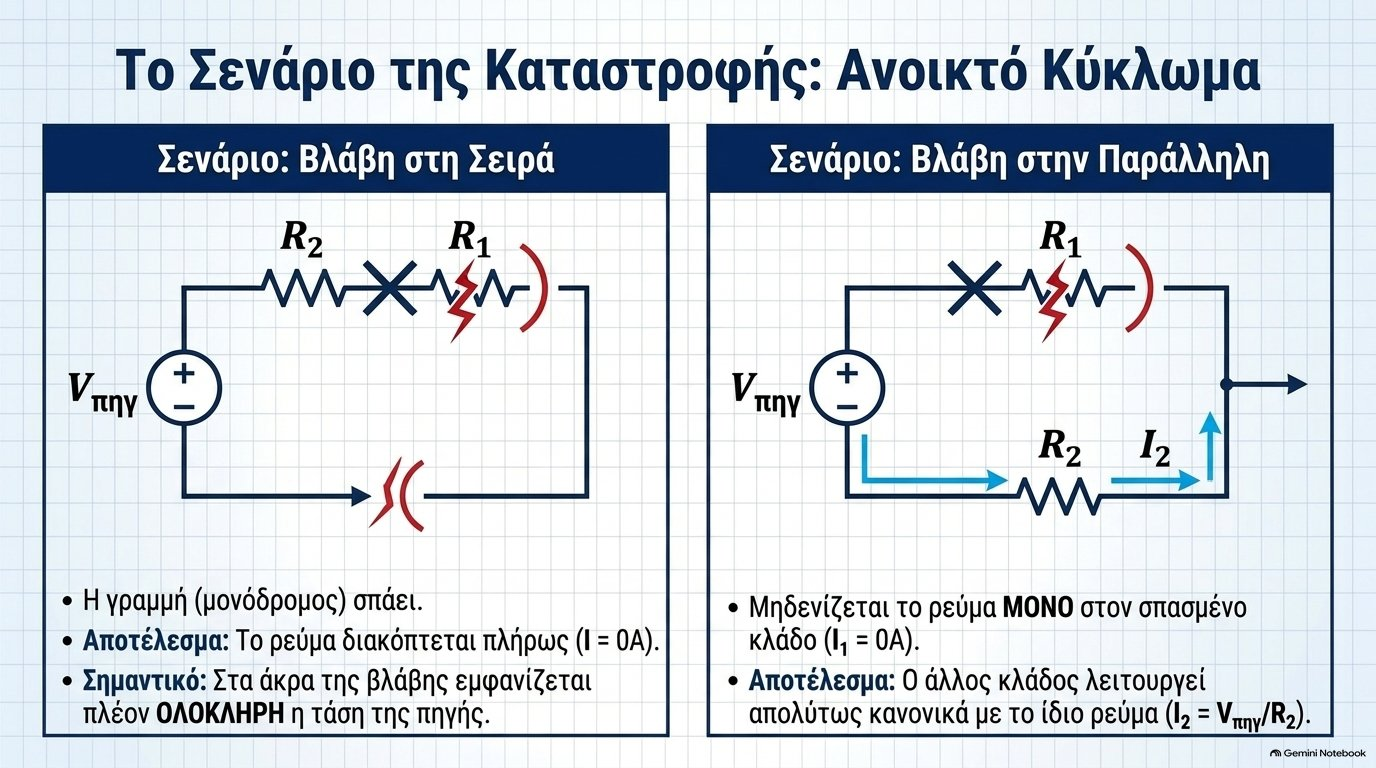
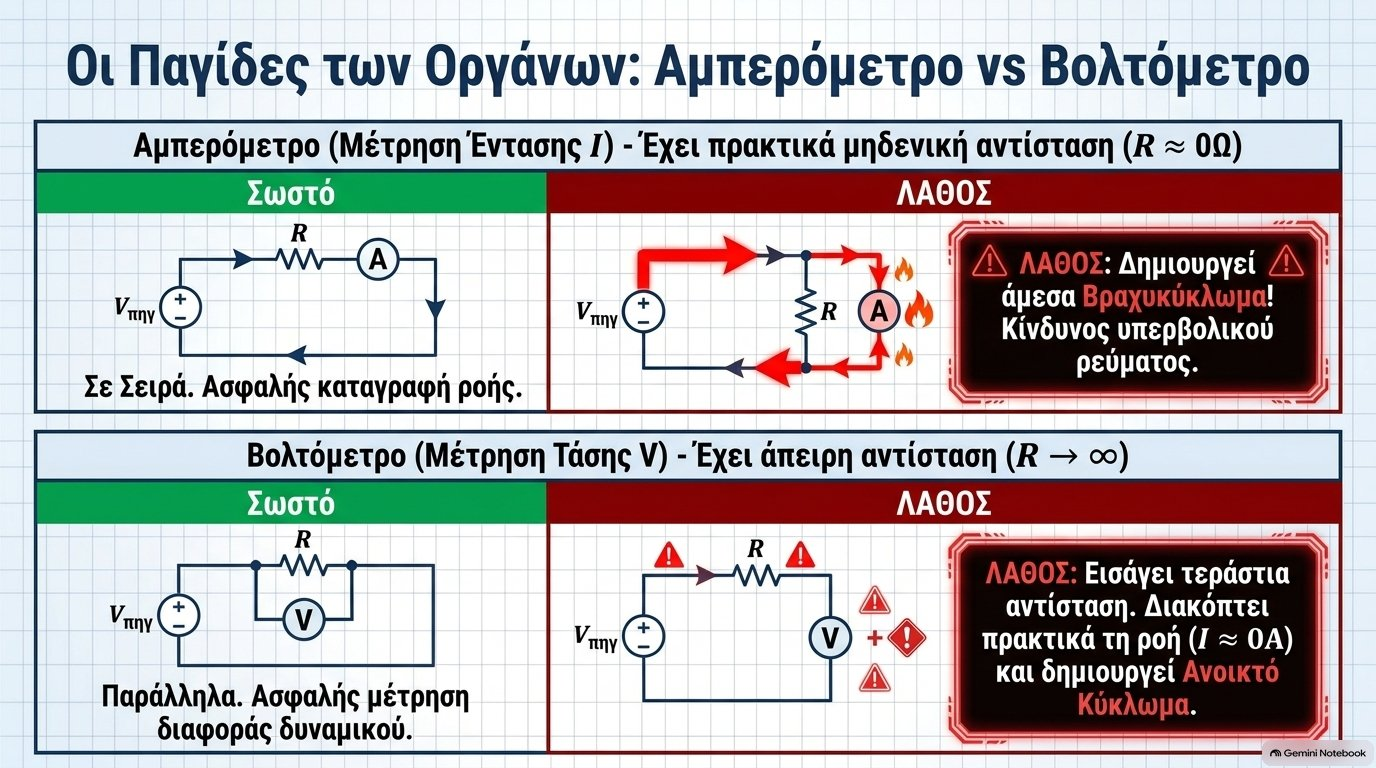
Fix SurvivalSlides deck isolation & reset-to-slide-1, trim physarch to 10 slides, add Physics G Circuit Architecture & Faults deck (12 slides)

diff --git a/js/survival-slides.js b/js/survival-slides.js
@@ -10,45 +10,52 @@ window.SurvivalSlides = (function () {
         geomosaic: { n: 11, dir: 'geomosaic/g', title: 'Το θαλάσσιο ψηφιδωτό της Ευρώπης', intro: '11 διαφάνειες για τις θάλασσες της Ευρώπης: καταγωγή, Βόρεια Θάλασσα, Βαλτική, Μεσόγειος και ο άνθρωπος.' },
         chemacid: { n: 30, out: [28, 29], dir: 'chemacid/c', title: 'Οξέα, βάσεις και εξουδετέρωση', intro: '30 διαφάνειες (οι δύο τελευταίες είναι ΕΚΤΟΣ ΥΛΗΣ): ιδιότητες οξέων και βάσεων, θεωρίες, δείκτες, κλίμακα pH, αραίωση και συμπύκνωση, εξουδετέρωση, και οι εφαρμογές τους στο σώμα μας, στη φύση, στο νοικοκυριό, στη διατροφή, στη βιομηχανία και στο περιβάλλον.' },
         bioalife: { n: 14, dir: 'bioalife/a', title: 'Η αρχιτεκτονική της ζωής', intro: '14 διαφάνειες για τα χαρακτηριστικά των ζωντανών οργανισμών, το κύτταρο και τα οργανίδιά του, και την οργάνωση από το κύτταρο μέχρι τον οργανισμό.' },
-        physarch: { n: 13, dir: 'physarch/f', title: 'Αρχιτεκτονική ηλεκτρικών κυκλωμάτων', intro: '13 διαφάνειες: ενέργεια, ρεύμα και τάση, οι τύποι του νόμου του Ohm, σύνδεση σε σειρά και παράλληλα, βλάβες και βραχυκύκλωμα, και σωστή χρήση οργάνων.' },
+        physarch: { n: 10, dir: 'physarch/f', title: 'Αρχιτεκτονική ηλεκτρικών κυκλωμάτων', intro: '10 διαφάνειες: ενέργεια, ρεύμα και τάση, οι τύποι του νόμου του Ohm, σύνδεση σε σειρά και παράλληλα, και σωστή χρήση οργάνων.' },
+        physfaults: { n: 12, dir: 'physfaults/p', title: 'Αρχιτεκτονική κυκλωμάτων & σενάρια βλάβης', intro: '12 διαφάνειες για τη <strong>μικροσκοπική θεώρηση</strong>, τη <strong>μαθηματική μοντελοποίηση</strong>, τα <strong>σενάρια βλάβης</strong> (ανοικτό κύκλωμα, μερικό βραχυκύκλωμα) και τα <strong>ενεργειακά ισοζύγια</strong>.' },
         bioarch: { n: 15, dir: 'bioarch/b', title: 'Στήριξη & Κίνηση: η αρχιτεκτονική της ζωής', intro: '15 διαφάνειες για τη <strong>στήριξη</strong> και την <strong>κίνηση</strong>: από τους μονοκύτταρους οργανισμούς και τα φυτά, μέχρι τα ζώα και το ανθρώπινο μυοσκελετικό σύστημα.' }
     };
-    let N = 14, src = (i) => 'assets/images/survival/s' + String(i + 1).padStart(2, '0') + '.jpg';
     let timer = null;
-    function stop() { if (timer) { clearInterval(timer); timer = null; } const b = document.getElementById('ss-play'); if (b) { b.classList.remove('on'); b.innerHTML = '▶ Αυτόματη αναπαραγωγή'; } }
+    function stop() {
+        if (timer) { clearInterval(timer); timer = null; }
+        document.querySelectorAll('.ss-play').forEach((b) => { b.classList.remove('on'); b.innerHTML = '▶ Αυτόματη αναπαραγωγή'; });
+        document.querySelectorAll('.ss-prog-bar').forEach((p) => { p.style.width = '0'; });
+    }
 
     function render(mount, key) {
         stop();
-        const set = SETS[key || 'survival']; N = set.n; src = (i) => 'assets/images/' + set.dir + String(i + 1).padStart(2, '0') + '.jpg';
+        const k = key || 'survival';
+        const set = SETS[k] || SETS.survival;
+        const N = set.n;
+        const src = (i) => 'assets/images/' + set.dir + String(i + 1).padStart(2, '0') + '.jpg';
         let cur = 0;
         mount.innerHTML =
-            '<div class="ss-wrap">' +
+            '<div class="ss-wrap" data-deck="' + k + '">' +
             '<div class="sv-head"><h2>📊 ' + set.title + '</h2>' +
             '<p>' + set.intro + ' Μπορείς να τις προχωράς <strong>μόνος/η σου</strong> (κουμπιά, βέλη του πληκτρολογίου, σύρσιμο με το δάχτυλο ή κλικ στις μικρογραφίες) ή να τις αφήσεις να παίζουν <strong>αυτόματα</strong>.</p></div>' +
-            '<div class="ss-stage" id="ss-stage" tabindex="0">' +
-            '<img id="ss-img" class="ss-img" alt="Διαφάνεια 1" src="' + src(0) + '">' +
-            '<div class="ss-out" id="ss-out" hidden>ΕΚΤΟΣ ΥΛΗΣ <small>δεν ζητείται</small></div>' +
-            '<button type="button" class="ss-nav ss-prev" id="ss-prev" aria-label="Προηγούμενη διαφάνεια">‹</button>' +
-            '<button type="button" class="ss-nav ss-next" id="ss-next" aria-label="Επόμενη διαφάνεια">›</button>' +
-            '<div class="ss-prog"><div class="ss-prog-bar" id="ss-bar"></div></div></div>' +
+            '<div class="ss-stage" tabindex="0">' +
+            '<img class="ss-img" alt="Διαφάνεια 1" src="' + src(0) + '">' +
+            '<div class="ss-out" hidden>ΕΚΤΟΣ ΥΛΗΣ <small>δεν ζητείται</small></div>' +
+            '<button type="button" class="ss-nav ss-prev" aria-label="Προηγούμενη διαφάνεια">‹</button>' +
+            '<button type="button" class="ss-nav ss-next" aria-label="Επόμενη διαφάνεια">›</button>' +
+            '<div class="ss-prog"><div class="ss-prog-bar"></div></div></div>' +
             '<div class="sv-bar ss-bar2">' +
-            '<button type="button" class="sv-btn" id="ss-b-prev">⏮ Προηγούμενη</button>' +
-            '<span class="ss-count" id="ss-count"></span>' +
-            '<button type="button" class="sv-btn" id="ss-b-next">Επόμενη ⏭</button>' +
-            '<button type="button" class="sv-btn" id="ss-play">▶ Αυτόματη αναπαραγωγή</button>' +
-            '<label class="sv-size">Χρόνος ανά διαφάνεια <select id="ss-sec"><option value="6">6 δευτ.</option><option value="10" selected>10 δευτ.</option><option value="15">15 δευτ.</option><option value="25">25 δευτ.</option></select></label>' +
-            '<button type="button" class="sv-btn" id="ss-full">⛶ Πλήρης οθόνη</button></div>' +
-            '<div class="ss-thumbs" id="ss-thumbs"></div></div>';
+            '<button type="button" class="sv-btn ss-b-prev">⏮ Προηγούμενη</button>' +
+            '<span class="ss-count"></span>' +
+            '<button type="button" class="sv-btn ss-b-next">Επόμενη ⏭</button>' +
+            '<button type="button" class="sv-btn ss-play">▶ Αυτόματη αναπαραγωγή</button>' +
+            '<label class="sv-size">Χρόνος ανά διαφάνεια <select class="ss-sec"><option value="6">6 δευτ.</option><option value="10" selected>10 δευτ.</option><option value="15">15 δευτ.</option><option value="25">25 δευτ.</option></select></label>' +
+            '<button type="button" class="sv-btn ss-full">⛶ Πλήρης οθόνη</button></div>' +
+            '<div class="ss-thumbs"></div></div>';
         const $ = (s) => mount.querySelector(s);
-        const img = $('#ss-img'), cnt = $('#ss-count'), th = $('#ss-thumbs'), stage = $('#ss-stage'), bar = $('#ss-bar'), play = $('#ss-play');
+        const img = $('.ss-img'), cnt = $('.ss-count'), th = $('.ss-thumbs'), stage = $('.ss-stage'), bar = $('.ss-prog-bar'), play = $('.ss-play');
         const OUT = set.out || [];                    // slides marked "ΕΚΤΟΣ ΥΛΗΣ" (0-based)
         th.innerHTML = Array.from({ length: N }, (_, i) => '<button type="button" class="ss-th' + (OUT.indexOf(i) >= 0 ? ' ss-th-out' : '') + '" data-i="' + i + '" aria-label="Διαφάνεια ' + (i + 1) + (OUT.indexOf(i) >= 0 ? ' (εκτός ύλης)' : '') + '"><img loading="lazy" src="' + src(i) + '" alt=""><b>' + (i + 1) + '</b>' + (OUT.indexOf(i) >= 0 ? '<i class="ss-th-tag">ΕΚΤΟΣ ΥΛΗΣ</i>' : '') + '</button>').join('');
         let secs = 10, t0 = 0;
         const go = (i) => {
             cur = (i + N) % N; img.src = src(cur); img.alt = 'Διαφάνεια ' + (cur + 1);
             cnt.textContent = 'Διαφάνεια ' + (cur + 1) + ' / ' + N;
-            th.querySelectorAll('.ss-th').forEach((b, k) => b.classList.toggle('now', k === cur));
-            const ob = $('#ss-out'); if (ob) ob.hidden = OUT.indexOf(cur) < 0;
+            th.querySelectorAll('.ss-th').forEach((b, j) => b.classList.toggle('now', j === cur));
+            const ob = $('.ss-out'); if (ob) ob.hidden = OUT.indexOf(cur) < 0;
             const nb = new Image(); nb.src = src((cur + 1) % N);            // preload the next one
             t0 = Date.now();
         };
@@ -63,10 +70,10 @@ window.SurvivalSlides = (function () {
         };
         const halt = () => { stop(); bar.style.width = '0'; };
         const manual = (i) => { go(i); if (timer) t0 = Date.now(); };
-        $('#ss-prev').onclick = $('#ss-b-prev').onclick = () => manual(cur - 1);
-        $('#ss-next').onclick = $('#ss-b-next').onclick = () => manual(cur + 1);
-        play.onclick = () => { if (timer) halt(); else start(); };
-        $('#ss-sec').onchange = (e) => { secs = +e.target.value; t0 = Date.now(); };
+        $('.ss-prev').onclick = $('.ss-b-prev').onclick = () => manual(cur - 1);
+        $('.ss-next').onclick = $('.ss-b-next').onclick = () => manual(cur + 1);
+        play.onclick = () => { if (timer && play.classList.contains('on')) halt(); else start(); };
+        $('.ss-sec').onchange = (e) => { secs = +e.target.value; t0 = Date.now(); };
         th.onclick = (e) => { const b = e.target.closest('.ss-th'); if (b) manual(+b.dataset.i); };
         stage.addEventListener('keydown', (e) => {
             if (e.key === 'ArrowRight' || e.key === 'PageDown') { manual(cur + 1); e.preventDefault(); }
@@ -76,8 +83,19 @@ window.SurvivalSlides = (function () {
         let x0 = null;
         stage.addEventListener('touchstart', (e) => { x0 = e.touches[0].clientX; }, { passive: true });
         stage.addEventListener('touchend', (e) => { if (x0 === null) return; const dx = e.changedTouches[0].clientX - x0; x0 = null; if (Math.abs(dx) > 40) manual(cur + (dx < 0 ? 1 : -1)); });
-        $('#ss-full').onclick = () => { if (document.fullscreenElement) document.exitFullscreen(); else if (stage.requestFullscreen) { stage.requestFullscreen().catch(() => {}); stage.focus(); } };
+        $('.ss-full').onclick = () => {
+            const fsEl = document.fullscreenElement || document.webkitFullscreenElement;
+            if (fsEl) {
+                const ex = document.exitFullscreen || document.webkitExitFullscreen;
+                if (ex) ex.call(document);
+            } else {
+                const req = stage.requestFullscreen || stage.webkitRequestFullscreen;
+                if (req) { try { const p = req.call(stage); if (p && p.catch) p.catch(() => {}); } catch (e) {} stage.focus(); }
+            }
+        };
+        mount._ssReset = () => { stop(); go(0); };
         go(0);
     }
-    return { render, stop };
+    function reset(mount) { if (mount && typeof mount._ssReset === 'function') mount._ssReset(); }
+    return { render, stop, reset };
 })();

diff --git a/js/app.js b/js/app.js
@@ -793,6 +793,9 @@ function renderQuizSelection(classKey, subjectKey) {
         <div class="tab-panel" id="tab-panel-physarch" style="display: ${currentTab === 'physarch' ? 'block' : 'none'};">
             <div id="physarch-mount"></div>
         </div>
+        <div class="tab-panel" id="tab-panel-physfaults" style="display: ${currentTab === 'physfaults' ? 'block' : 'none'};">
+            <div id="physfaults-mount"></div>
+        </div>
         <div class="tab-panel" id="tab-panel-survival" style="display: ${currentTab === 'survival' ? 'block' : 'none'};">
             <div id="survival-mount"></div>
         </div>
@@ -1047,6 +1050,10 @@ function renderQuizSelection(classKey, subjectKey) {
         const m = document.getElementById('physarch-mount');
         if (m && window.SurvivalSlides) window.SurvivalSlides.render(m, 'physarch');
     }
+    if (currentTab === 'physfaults') {
+        const m = document.getElementById('physfaults-mount');
+        if (m && window.SurvivalSlides) window.SurvivalSlides.render(m, 'physfaults');
+    }
     if (currentTab === 'celldive') {
         const m = document.getElementById('celldive-mount');
         if (m && window.CellDive) window.CellDive.render(m);
@@ -1244,6 +1251,7 @@ const PHYS_G_GROUPS = [
         { tab: 'theory', label: 'Συνοπτικός οδηγός μελέτης και πρωτόκολλο επίλυσης' },
         { tab: 'survival', label: 'Οδηγός επιβίωσης (διαφάνειες)' },
         { tab: 'physarch', label: 'Αρχιτεκτονική ηλεκτρικών κυκλωμάτων (διαφάνειες)' },
+        { tab: 'physfaults', label: 'Αρχιτεκτονική κυκλωμάτων & σενάρια βλάβης (διαφάνειες)' },
         { tab: 'seriesvideo', label: 'Βίντεο: κύκλωμα σειράς (ελληνικοί υπότιτλοι)' },
         { tab: 'faultsvideo', label: 'Βίντεο: βλάβες και βραχυκυκλώματα σε σειρά (ελληνικοί υπότιτλοι)' },
         { tab: 'parallelvideo', label: 'Βίντεο: παράλληλο κύκλωμα γενικά (ελληνικοί υπότιτλοι)' } ] },
@@ -1470,7 +1478,7 @@ function switchSubjectTab(tabKey) {
         if (tabKey === 'survival') {
             suPanel.style.animation = 'fadeIn 0.3s ease';
             const um = document.getElementById('survival-mount');
-            if (um && !um.hasChildNodes() && window.SurvivalSlides) window.SurvivalSlides.render(um);
+            if (um && window.SurvivalSlides) { if (!um.hasChildNodes()) window.SurvivalSlides.render(um); else window.SurvivalSlides.reset(um); }
         } else if (window.SurvivalSlides) {
             window.SurvivalSlides.stop();          // leaving the tab stops the automatic play
         }
@@ -1569,7 +1577,7 @@ function switchSubjectTab(tabKey) {
         if (tabKey === 'geomosaic') {
             gmPanel.style.animation = 'fadeIn 0.3s ease';
             const gmm = document.getElementById('geomosaic-mount');
-            if (gmm && !gmm.hasChildNodes() && window.SurvivalSlides) window.SurvivalSlides.render(gmm, 'geomosaic');
+            if (gmm && window.SurvivalSlides) { if (!gmm.hasChildNodes()) window.SurvivalSlides.render(gmm, 'geomosaic'); else window.SurvivalSlides.reset(gmm); }
         } else if (window.SurvivalSlides && gmPanel.querySelector('.ss-wrap')) {
             window.SurvivalSlides.stop();
         }
@@ -1580,7 +1588,7 @@ function switchSubjectTab(tabKey) {
         if (tabKey === 'chemslides') {
             csPanel.style.animation = 'fadeIn 0.3s ease';
             const csm = document.getElementById('chemslides-mount');
-            if (csm && !csm.hasChildNodes() && window.SurvivalSlides) window.SurvivalSlides.render(csm, 'chemacid');
+            if (csm && window.SurvivalSlides) { if (!csm.hasChildNodes()) window.SurvivalSlides.render(csm, 'chemacid'); else window.SurvivalSlides.reset(csm); }
         } else if (window.SurvivalSlides && csPanel.querySelector('.ss-wrap')) {
             window.SurvivalSlides.stop();
         }
@@ -1591,7 +1599,7 @@ function switchSubjectTab(tabKey) {
         if (tabKey === 'bioalife') {
             blPanel.style.animation = 'fadeIn 0.3s ease';
             const blm = document.getElementById('bioalife-mount');
-            if (blm && !blm.hasChildNodes() && window.SurvivalSlides) window.SurvivalSlides.render(blm, 'bioalife');
+            if (blm && window.SurvivalSlides) { if (!blm.hasChildNodes()) window.SurvivalSlides.render(blm, 'bioalife'); else window.SurvivalSlides.reset(blm); }
         } else if (window.SurvivalSlides && blPanel.querySelector('.ss-wrap')) {
             window.SurvivalSlides.stop();
         }
@@ -1602,8 +1610,19 @@ function switchSubjectTab(tabKey) {
         if (tabKey === 'physarch') {
             paPanel.style.animation = 'fadeIn 0.3s ease';
             const pam = document.getElementById('physarch-mount');
-            if (pam && !pam.hasChildNodes() && window.SurvivalSlides) window.SurvivalSlides.render(pam, 'physarch');
+            if (pam && window.SurvivalSlides) { if (!pam.hasChildNodes()) window.SurvivalSlides.render(pam, 'physarch'); else window.SurvivalSlides.reset(pam); }
         } else if (window.SurvivalSlides && paPanel.querySelector('.ss-wrap')) {
+            window.SurvivalSlides.stop();
+        }
+    }
+    const pfPanel = document.getElementById('tab-panel-physfaults');
+    if (pfPanel) {
+        pfPanel.style.display = tabKey === 'physfaults' ? 'block' : 'none';
+        if (tabKey === 'physfaults') {
+            pfPanel.style.animation = 'fadeIn 0.3s ease';
+            const pfm = document.getElementById('physfaults-mount');
+            if (pfm && window.SurvivalSlides) { if (!pfm.hasChildNodes()) window.SurvivalSlides.render(pfm, 'physfaults'); else window.SurvivalSlides.reset(pfm); }
+        } else if (window.SurvivalSlides && pfPanel.querySelector('.ss-wrap')) {
             window.SurvivalSlides.stop();
         }
     }
@@ -1613,7 +1632,7 @@ function switchSubjectTab(tabKey) {
         if (tabKey === 'bioarch') {
             baPanel.style.animation = 'fadeIn 0.3s ease';
             const bam = document.getElementById('bioarch-mount');
-            if (bam && !bam.hasChildNodes() && window.SurvivalSlides) window.SurvivalSlides.render(bam, 'bioarch');
+            if (bam && window.SurvivalSlides) { if (!bam.hasChildNodes()) window.SurvivalSlides.render(bam, 'bioarch'); else window.SurvivalSlides.reset(bam); }
         } else if (window.SurvivalSlides && baPanel.querySelector('.ss-wrap') && !document.getElementById('tab-panel-survival')) {
             window.SurvivalSlides.stop();
         }

diff --git a/index.html b/index.html
@@ -191,7 +191,7 @@
     <script src="js/cell-info.js?v=2"></script>
     <script src="js/cell-dive.js?v=6"></script>
     <script src="js/geo-deck.js?v=3"></script>
-    <script src="js/survival-slides.js?v=9"></script>
+    <script src="js/survival-slides.js?v=13"></script>
     <script src="js/circuit3d.js?v=37"></script>
     <script src="js/phys-g-analogy.js?v=10"></script>
     <script src="js/cell-explorer.js?v=915"></script>
@@ -220,6 +220,6 @@
     <script src="js/phys-a-calc.js?v=7"></script>
     <script src="js/phys-a-length.js?v=8"></script>
     <script src="js/ctl-emphasis.js?v=2"></script>
-    <script src="js/app.js?v=318"></script>
+    <script src="js/app.js?v=320"></script>
 </body>
 </html>
